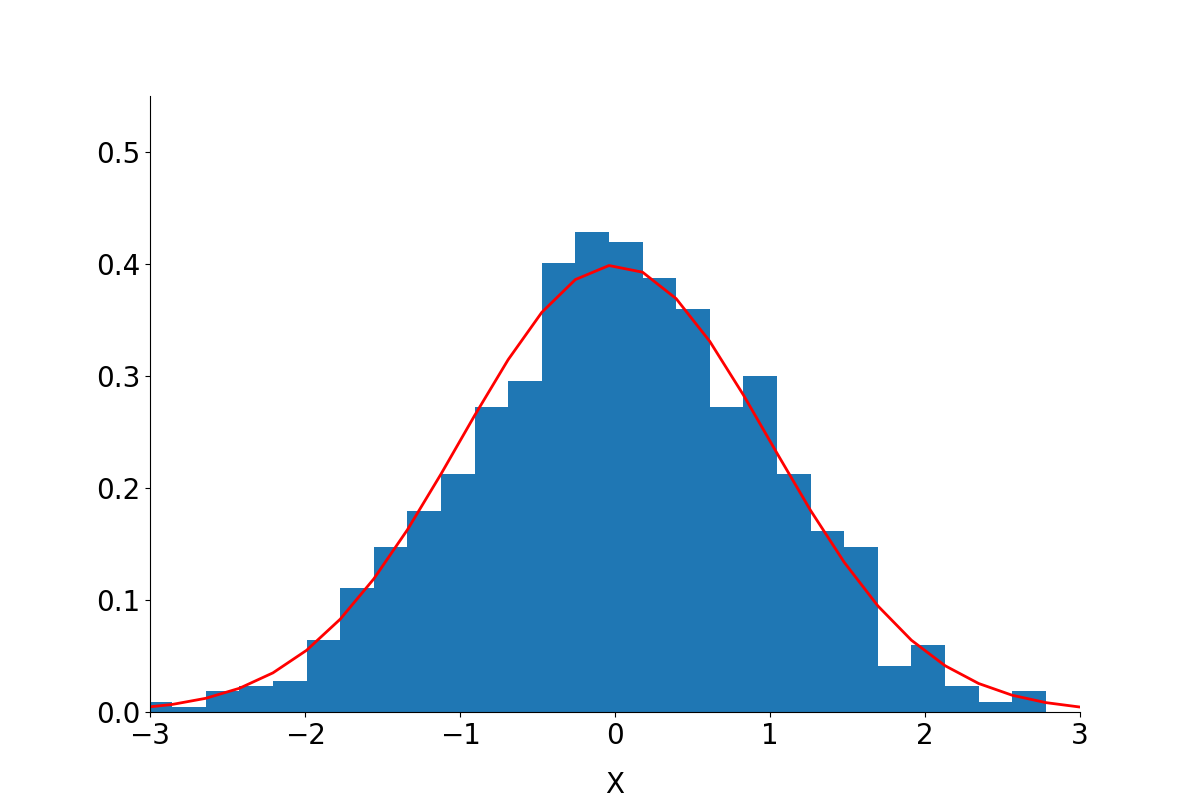
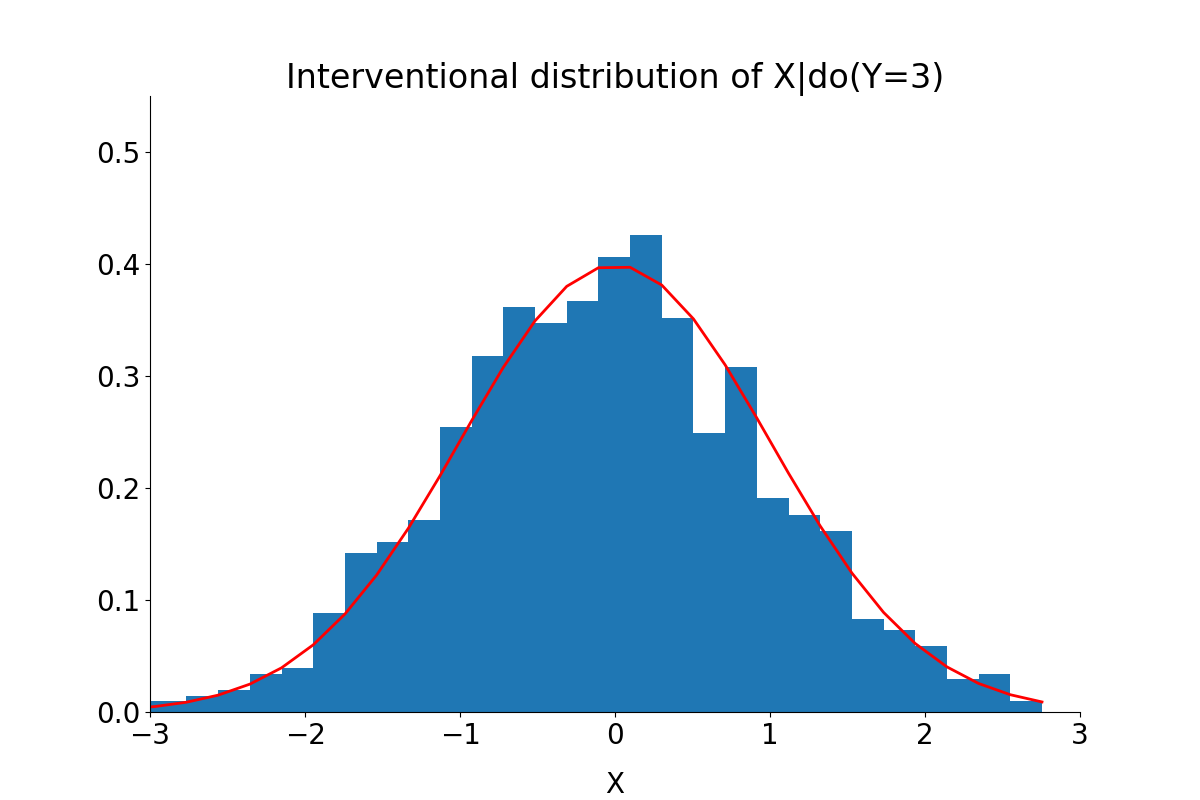
updated the conditional distribution

diff --git a/sandbox/01_causal_models/material/interventional_conventional_dist.py b/sandbox/01_causal_models/material/interventional_conventional_dist.py
@@ -15,6 +15,7 @@ plt.plot(bins, 1/(sd * np.sqrt(2 * np.pi)) * np.exp(- (bins - mean)**2 / (2 * sd
 ax.set_xlim(-3, 3)
 ax.set_ylim(0, 0.55)
 ax.set_xlabel('X')
+ax.set_title('Interventional distribution of X|do(Y=3)')
 
 plt.savefig('interventional_distribution.png')
 
@@ -22,16 +23,18 @@ plt.savefig('interventional_distribution.png')
 # Conditional distribution
 
 # Plot graph
-mean = [0, 0]
-rho = -6
-cov = [[1, rho], [rho, 37]]
+sigma1 = 1
+sigma2 = 6.0827625303  # sqrt(37)
+rho = -0.98639392383  # -6/sigma2
+mean = (sigma1/sigma2) * rho * 3
+sd = 1 - rho ** 2
 fig, ax = plt.subplots()
-x, y = np.random.multivariate_normal(mean, cov, 1000).T
-ax.plot(x, y, 'x')
+x = np.random.normal(mean, sd, 1000)
+count, bins, ignored = plt.hist(x, 30, density=True)
+plt.plot(bins, 1/(sd * np.sqrt(2 * np.pi)) * np.exp(- (bins - mean)**2 / (2 * sd**2)), linewidth=2, color='r')
 
 # Set labels, limits and title
-ax.set_xlim(-4, 4)
 ax.set_xlabel('X')
-ax.set_ylabel('Y')
+ax.set_title('Conditional distribution of X|Y=3')
 
 plt.savefig('conditional_distribution.png')
